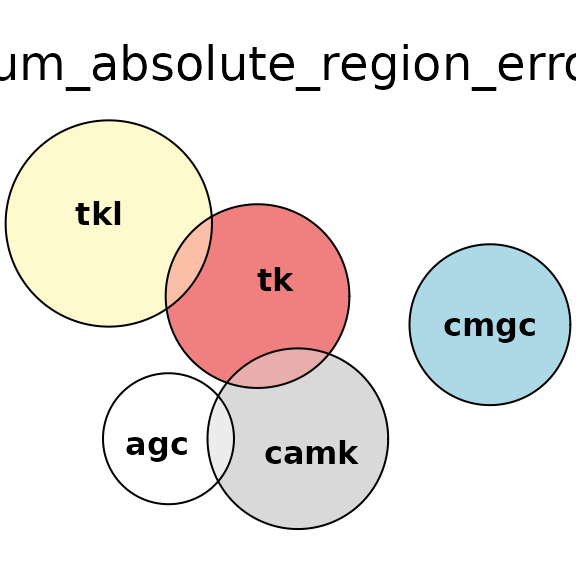
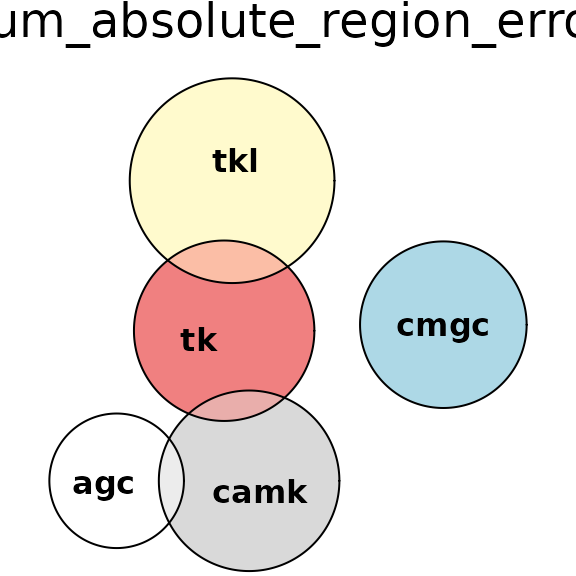
Deploying to gh-pages from @ jolars/eulerr@fd9b1aca59897a73d579a70c88e761d01c8edce2 🚀

diff --git a/dev/articles/loss-functions.html b/dev/articles/loss-functions.html
@@ -83,18 +83,18 @@ repository for eulerr</a>.</p>
 <em>agc</em>, <em>camk</em>, <em>cmgc</em>, and <em>tk</em>.</p>
 <div class="sourceCode" id="cb1"><pre class="downlit sourceCode r">
 <code class="sourceCode R"><span><span class="va">combos</span> <span class="op">&lt;-</span> <span class="fu"><a href="https://rdrr.io/r/base/c.html" class="external-link">c</a></span><span class="op">(</span></span>
-<span>  <span class="st">"agc"</span>                  <span class="op">=</span> <span class="fl">9</span>,</span>
-<span>  <span class="st">"camk"</span>                 <span class="op">=</span> <span class="fl">17</span>,</span>
-<span>  <span class="st">"cmgc"</span>                 <span class="op">=</span> <span class="fl">16</span>,</span>
-<span>  <span class="st">"tk"</span>                   <span class="op">=</span> <span class="fl">16</span>,</span>
-<span>  <span class="st">"tkl"</span>                  <span class="op">=</span> <span class="fl">23</span>,</span>
-<span>  <span class="st">"agc&amp;camk"</span>             <span class="op">=</span> <span class="fl">1</span>,</span>
-<span>  <span class="st">"camk&amp;tk"</span>              <span class="op">=</span> <span class="fl">1</span>,</span>
-<span>  <span class="st">"tk&amp;tkl"</span>               <span class="op">=</span> <span class="fl">1</span>,</span>
-<span>  <span class="st">"camk&amp;cmgc&amp;tkl"</span>        <span class="op">=</span> <span class="fl">1</span>,</span>
-<span>  <span class="st">"camk&amp;tk&amp;tkl"</span>          <span class="op">=</span> <span class="fl">2</span>,</span>
-<span>  <span class="st">"agc&amp;camk&amp;tk&amp;tkl"</span>      <span class="op">=</span> <span class="fl">1</span>,</span>
-<span>  <span class="st">"camk&amp;cmgc&amp;tk&amp;tkl"</span>     <span class="op">=</span> <span class="fl">3</span>,</span>
+<span>  <span class="st">"agc"</span> <span class="op">=</span> <span class="fl">9</span>,</span>
+<span>  <span class="st">"camk"</span> <span class="op">=</span> <span class="fl">17</span>,</span>
+<span>  <span class="st">"cmgc"</span> <span class="op">=</span> <span class="fl">16</span>,</span>
+<span>  <span class="st">"tk"</span> <span class="op">=</span> <span class="fl">16</span>,</span>
+<span>  <span class="st">"tkl"</span> <span class="op">=</span> <span class="fl">23</span>,</span>
+<span>  <span class="st">"agc&amp;camk"</span> <span class="op">=</span> <span class="fl">1</span>,</span>
+<span>  <span class="st">"camk&amp;tk"</span> <span class="op">=</span> <span class="fl">1</span>,</span>
+<span>  <span class="st">"tk&amp;tkl"</span> <span class="op">=</span> <span class="fl">1</span>,</span>
+<span>  <span class="st">"camk&amp;cmgc&amp;tkl"</span> <span class="op">=</span> <span class="fl">1</span>,</span>
+<span>  <span class="st">"camk&amp;tk&amp;tkl"</span> <span class="op">=</span> <span class="fl">2</span>,</span>
+<span>  <span class="st">"agc&amp;camk&amp;tk&amp;tkl"</span> <span class="op">=</span> <span class="fl">1</span>,</span>
+<span>  <span class="st">"camk&amp;cmgc&amp;tk&amp;tkl"</span> <span class="op">=</span> <span class="fl">3</span>,</span>
 <span>  <span class="st">"agc&amp;camk&amp;cmgc&amp;tk&amp;tkl"</span> <span class="op">=</span> <span class="fl">1</span></span>
 <span><span class="op">)</span></span></code></pre></div>
 <p>Notice that the sizes of most of the intersections are small compared
@@ -150,12 +150,13 @@ mirrors the loss functions provided by the underlying
 <tr class="odd">
 <td align="left">Sum of squared regErrors</td>
 <td align="left"><code>sum_squared_region_error</code></td>
-<td align="left"><math display="inline" xmlns="http://www.w3.org/1998/Math/MathML"><semantics><mrow><msub><mo>∑</mo><mi>i</mi></msub><msup><mrow><mo stretchy="true" form="prefix">(</mo><msub><mi>y</mi><mi>i</mi></msub><mi>/</mi><msub><mo>∑</mo><mi>k</mi></msub><msub><mi>y</mi><mi>k</mi></msub><mo>−</mo><msub><mover><mi>y</mi><mo accent="true">̂</mo></mover><mi>i</mi></msub><mi>/</mi><msub><mo>∑</mo><mi>k</mi></msub><msub><mover><mi>y</mi><mo accent="true">̂</mo></mover><mi>k</mi></msub><mo stretchy="true" form="postfix">)</mo></mrow><mn>2</mn></msup></mrow><annotation encoding="application/x-tex">\sum_i \left(y_i/\sum_k y_k - \hat y_i / \sum_k \hat y_k\right)^2</annotation></semantics></math></td>
+<td align="left">$_i (y_i/_k y_k - y_i / <em>k y</em>
+</td>
 </tr>
 <tr class="even">
 <td align="left">Sum of absolute regErrors</td>
 <td align="left"><code>sum_absolute_region_error</code></td>
-<td align="left"><math display="inline" xmlns="http://www.w3.org/1998/Math/MathML"><semantics><mrow><msub><mo>∑</mo><mi>i</mi></msub><mo minsize="120%" maxsize="120%" stretchy="true" form="prefix">|</mo><msub><mi>y</mi><mi>i</mi></msub><mi>/</mi><msub><mo>∑</mo><mi>k</mi></msub><msub><mi>y</mi><mi>k</mi></msub><mo>−</mo><msub><mover><mi>y</mi><mo accent="true">̂</mo></mover><mi>i</mi></msub><mi>/</mi><msub><mo>∑</mo><mi>k</mi></msub><msub><mover><mi>y</mi><mo accent="true">̂</mo></mover><mi>k</mi></msub><mo minsize="120%" maxsize="120%" stretchy="true" form="prefix">|</mo></mrow><annotation encoding="application/x-tex">\sum_i \big|y_i/\sum_k y_k - \hat y_i / \sum_k \hat y_k\big|</annotation></semantics></math></td>
+<td align="left">$_i |y_i/_k y_k - y_i / _k y_k</td>
 </tr>
 <tr class="odd">
 <td align="left">Max squared error</td>
@@ -180,14 +181,12 @@ mirrors the loss functions provided by the underlying
 <tr class="odd">
 <td align="left">diagError</td>
 <td align="left"><code>diag_error</code></td>
-<td align="left">
-<math display="inline" xmlns="http://www.w3.org/1998/Math/MathML"><semantics><mrow><msub><mrow><mi mathvariant="normal">max</mi><mo></mo></mrow><mi>i</mi></msub><mo minsize="120%" maxsize="120%" stretchy="true" form="prefix">|</mo><msub><mi>y</mi><mi>i</mi></msub><mi>/</mi><msub><mo>∑</mo><mi>k</mi></msub><msub><mi>y</mi><mi>k</mi></msub><mo>−</mo><msub><mover><mi>y</mi><mo accent="true">̂</mo></mover><mi>i</mi></msub><mi>/</mi><msub><mo>∑</mo><mi>k</mi></msub><msub><mover><mi>y</mi><mo accent="true">̂</mo></mover><mi>k</mi></msub><mo minsize="120%" maxsize="120%" stretchy="true" form="prefix">|</mo></mrow><annotation encoding="application/x-tex">\max_i \big|y_i/\sum_k y_k - \hat y_i / \sum_k \hat y_k\big|</annotation></semantics></math><span class="citation">(Micallef and Rodgers 2014)</span>
-</td>
+<td align="left">$_i |y_i/_k y_k - y_i / _k y_k</td>
 </tr>
 </tbody>
 </table>
 <p>The pre-1.0 <code>loss_aggregator</code> argument is deprecated;
-combine the behaviour you want into a single <code>loss</code> value
+combine the behavior you want into a single <code>loss</code> value
 instead. For example <code>loss = "square"</code> together with
 <code>loss_aggregator = "sum"</code> is now simply
 <code>loss = "sum_squared"</code>, and <code>loss = "region"</code> with
@@ -226,13 +225,6 @@ reducing the goodness-of-fit of the larger intersections.</p>
 <p>Feel free to raise a request (or better yet, a pull request) at <a href="https://github.com/jolars/eulerr/issues" class="external-link uri">https://github.com/jolars/eulerr/issues</a> if you know of
 any other loss function that you think should be included in the
 package.</p>
-<div id="refs" class="references csl-bib-body hanging-indent">
-<div id="ref-Micallef_2014a" class="csl-entry">
-Micallef, Luana, and Peter Rodgers. 2014. <span>“<span class="nocase">eulerAPE</span>: Drawing Area-Proportional
-3-<span>Venn</span> Diagrams Using Ellipses.”</span> <em>PLOS ONE</em> 9
-(7): e101717. <a href="https://doi.org/10.1371/journal.pone.0101717" class="external-link">https://doi.org/10.1371/journal.pone.0101717</a>.
-</div>
-</div>
   </main>
 </div>
 

diff --git a/dev/articles/loss-functions.md b/dev/articles/loss-functions.md
@@ -12,18 +12,18 @@ We list the combinations below, which consists of 5 different sets,
 ``` r
 
 combos <- c(
-  "agc"                  = 9,
-  "camk"                 = 17,
-  "cmgc"                 = 16,
-  "tk"                   = 16,
-  "tkl"                  = 23,
-  "agc&camk"             = 1,
-  "camk&tk"              = 1,
-  "tk&tkl"               = 1,
-  "camk&cmgc&tkl"        = 1,
-  "camk&tk&tkl"          = 2,
-  "agc&camk&tk&tkl"      = 1,
-  "camk&cmgc&tk&tkl"     = 3,
+  "agc" = 9,
+  "camk" = 17,
+  "cmgc" = 16,
+  "tk" = 16,
+  "tkl" = 23,
+  "agc&camk" = 1,
+  "camk&tk" = 1,
+  "tk&tkl" = 1,
+  "camk&cmgc&tkl" = 1,
+  "camk&tk&tkl" = 2,
+  "agc&camk&tk&tkl" = 1,
+  "camk&cmgc&tk&tkl" = 3,
   "agc&camk&cmgc&tk&tkl" = 1
 )
 ```
@@ -71,18 +71,18 @@ Rust crate.
 |:---|:---|:---|
 | Sum of squared errors | `sum_squared` (default) | $`\sum_i (y_i - \hat y_i)^2`$ |
 | Sum of absolute errors | `sum_absolute` | $`\sum_i |y_i - \hat y_i|`$ |
-| Sum of squared regErrors | `sum_squared_region_error` | $`\sum_i \left(y_i/\sum_k y_k - \hat y_i / \sum_k \hat y_k\right)^2`$ |
-| Sum of absolute regErrors | `sum_absolute_region_error` | $`\sum_i \big|y_i/\sum_k y_k - \hat y_i / \sum_k \hat y_k\big|`$ |
+| Sum of squared regErrors | `sum_squared_region_error` | \$\_i (y_i/\_k y_k - y_i / *k y* |
+| Sum of absolute regErrors | `sum_absolute_region_error` | \$\_i \|y_i/\_k y_k - y_i / \_k y_k |
 | Max squared error | `max_squared` | $`\max_i (y_i - \hat y_i)^2`$ |
 | Max absolute error | `max_absolute` | $`\max_i |y_i - \hat y_i|`$ |
 | Root-mean-squared error | `root_mean_squared` | $`\sqrt{\sum_i (y_i - \hat y_i)^2 / \sum_i y_i^2}`$ |
 | Stress | `stress` | venneuler-style stress |
-| diagError | `diag_error` | $`\max_i \big|y_i/\sum_k y_k - \hat y_i / \sum_k \hat y_k\big|`$(Micallef and Rodgers 2014) |
+| diagError | `diag_error` | \$\_i \|y_i/\_k y_k - y_i / \_k y_k |
 
 Loss functions in **eulerr** {.table}
 
 The pre-1.0 `loss_aggregator` argument is deprecated; combine the
-behaviour you want into a single `loss` value instead. For example
+behavior you want into a single `loss` value instead. For example
 `loss = "square"` together with `loss_aggregator = "sum"` is now simply
 `loss = "sum_squared"`, and `loss = "region"` with
 `loss_aggregator = "max"` is `loss = "diag_error"`.
@@ -135,7 +135,3 @@ intersections.
 Feel free to raise a request (or better yet, a pull request) at
 <https://github.com/jolars/eulerr/issues> if you know of any other loss
 function that you think should be included in the package.
-
-Micallef, Luana, and Peter Rodgers. 2014. “eulerAPE: Drawing
-Area-Proportional 3-Venn Diagrams Using Ellipses.” *PLOS ONE* 9 (7):
-e101717. <https://doi.org/10.1371/journal.pone.0101717>.